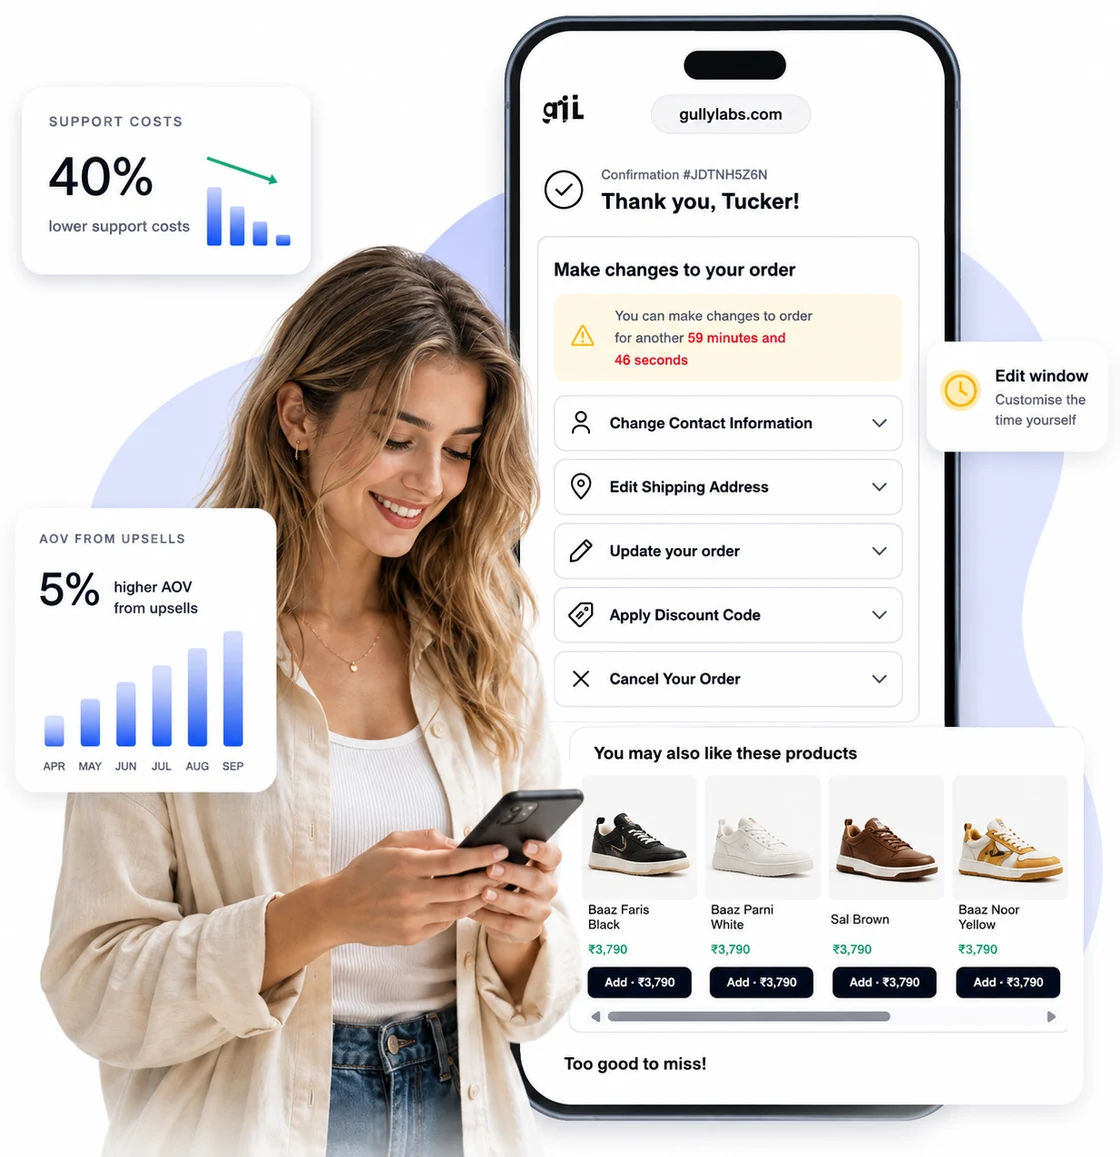
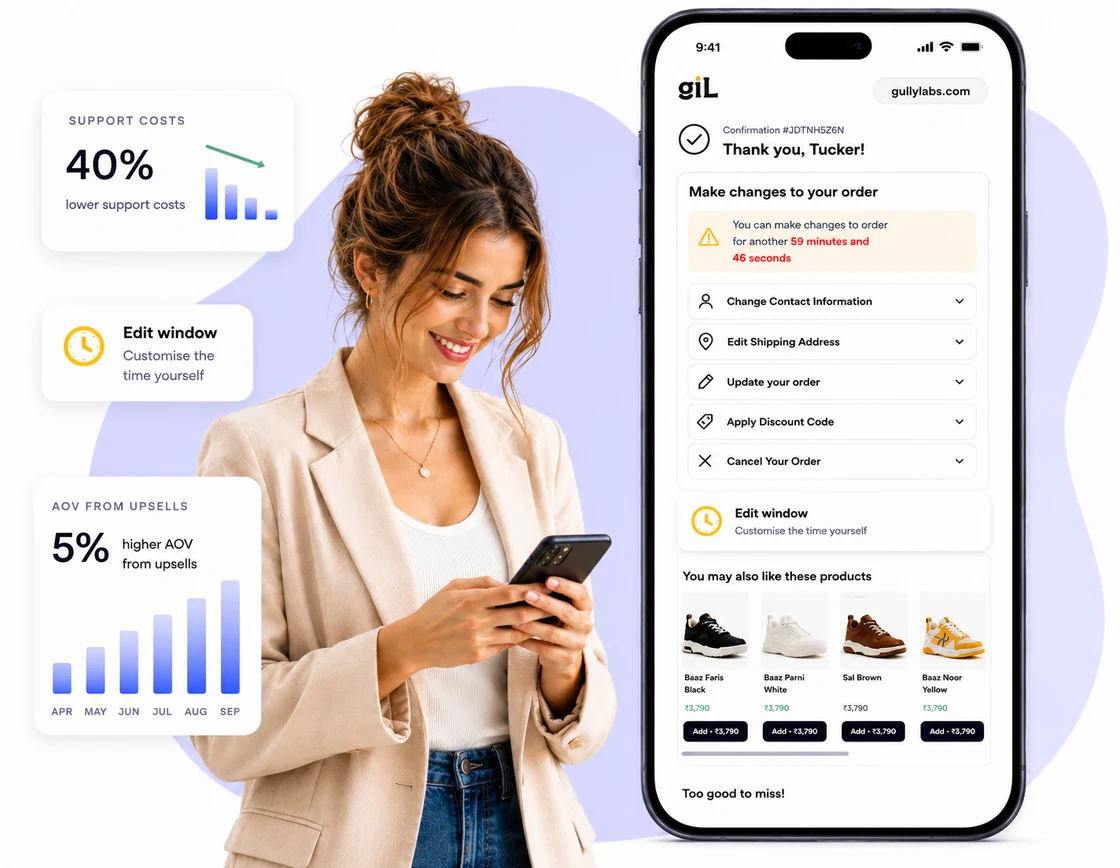
Swap in the revised hero image
Same pipeline: WebP at 1x and 2x for the 560px slot, 34KB and 95KB. The
new crop is wider than the last one (1424x1104 against 1234x1275), so the
intrinsic height attribute moves 579 -> 434 to keep the reserved space
correct.

diff --git a/index.html b/index.html
@@ -407,7 +407,7 @@
       </div>
 
       <div style="width: 560px; flex-shrink: 0; display: flex; justify-content: flex-start; align-items: center;">
-        <img src="assets/hero-home.webp" srcset="assets/hero-home.webp 560w, assets/hero-home@2x.webp 1120w" sizes="560px" alt="A shopper on the Gully Labs thank-you page, editing her order: a countdown on how long it stays editable, rows for contact details, shipping address, order changes, discount codes and cancellation, with recommended trainers below. Floating cards read 40% lower support costs and 5% higher AOV from upsells." width="560" height="579" style="width: 560px; max-width: 100%; height: auto; display: block;">
+        <img src="assets/hero-home.webp" srcset="assets/hero-home.webp 560w, assets/hero-home@2x.webp 1120w" sizes="560px" alt="A shopper on the Gully Labs thank-you page, editing her order: a countdown on how long it stays editable, rows for contact details, shipping address, order changes, discount codes and cancellation, with recommended trainers below. Floating cards read 40% lower support costs and 5% higher AOV from upsells." width="560" height="434" style="width: 560px; max-width: 100%; height: auto; display: block;">
       </div>
     </div>
   </section>
